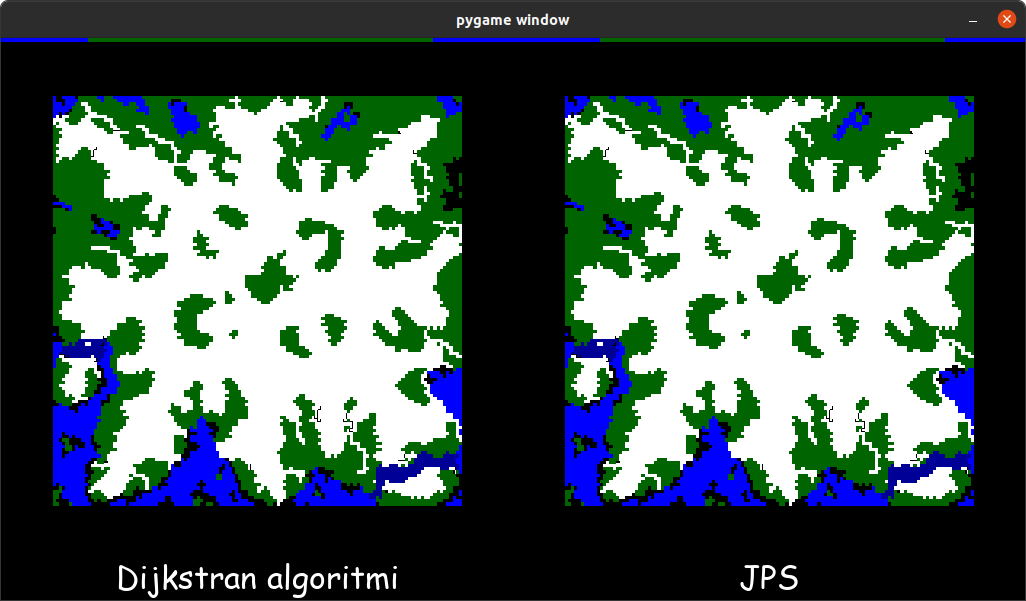
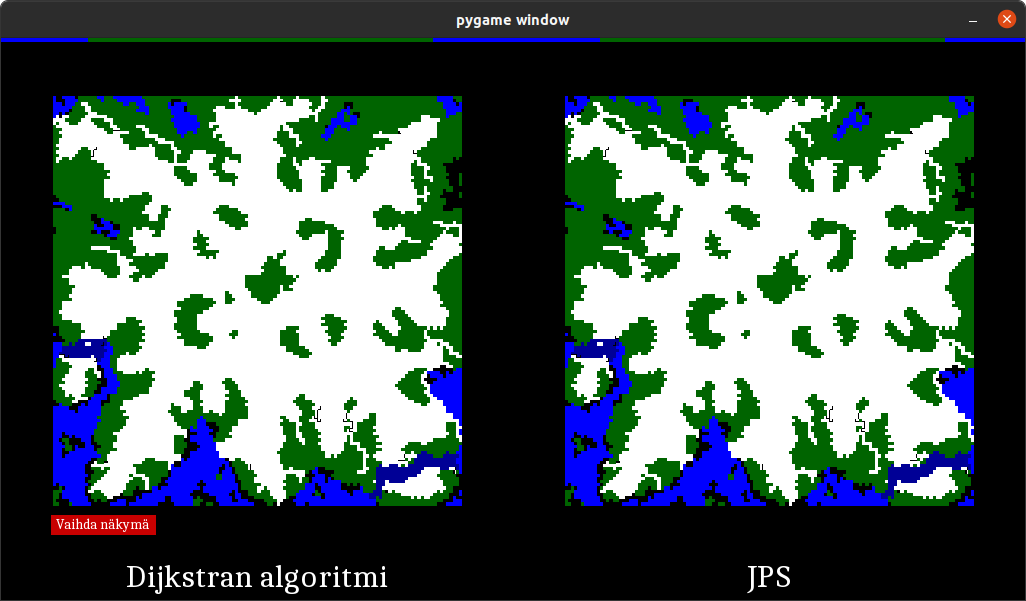
Päivitä dokumentaatiota

Changed region(s): [[0.0936, 0.9285, 0.4055, 1.0], [0.0312, 0.8386, 0.1559, 0.8985], [0.7173, 0.9285, 0.7797, 0.9884]]

diff --git a/documentation/viikkoraportti3.md b/documentation/viikkoraportti3.md
@@ -1,0 +1,8 @@
+# Viikkoraportti 3
+Tämä viikko alkoi tuskailulla miksi Dijkstran algoritmi ei toiminut oikein. Kun algoritmia testasi, se toimi niin kuin pitääkin jos loppupiste oli oikealla puolella alkupistettä, mutta jos loppupiste oli alkupisteen vasemmalla puolella, algoritmi teki hyvinkin epämääräisi kiekuroita. Tämä lisäsi kokonaispituutta "lyhyimmässä" reitissä huomattavasti. Tämä ongelma aiheutti paljon päänvaivaa ja vei liian monta tuntia aikaa, kunnes päätin kokeilla heittää heap-tietorakenteen menemään ja käyttää listaa sen sijasta. Tämä korjasi algoritmin toiminnan. Ilmeisesti heap-tietorakenne ei sovellu tällaiseen pikselikarttaan, kun kaikki tieto heap-rakenteeseen tallennettiin tupleina. Oman veikkauksen mukaan se ei oikein ymmärtänyt mikä alkio sieltä keosta olisi milloinkin pitänyt noukkia. 
+
+Epäilemättä tietorakenteen muutos hidastaa algoritmin toimintaa (Dijkstra on muutenkin ahne), mutta en keksinyt miten saisin sen tehtyä keolla. Tämän lisäksi tein Dijkstran algoritmiin myös toiminnallisuuden, jonka avulla voi tallentaa sen lyhyimmän reitin (aikaisemmin se tallensi vain askelten määrän haluttuun pisteeseen). Lisäsin myös käyttöliittymään mahdollisuuden vaihtaa, mitä tarkastellaan (lyhyin polku vai algoritmin kaikki käydyt koordinaatit).
+Lisäsin myös pari testiä, jotka tarkistavat juuri tämän lyhyimmän polun toimintaa. Lisäsin myös github-repoon CI:n, joka mm. tarkistaa, ettei koodin laatu ole liian heikkoa. Testikattavuus on lisätty README.md-tiedostoon Codecovin avulla.
+
+Seuraavalla viikolla olisi viimein määrä työstää JPS kuntoon ja erotella vihdoin visualisoinnin ruudut toisistaan, että niissä näkyisi kummankin algoritmin polut rinta rinnan.
+Aikaa olen käyttänyt 12h.

diff --git a/documentation/kayttoohje.md b/documentation/kayttoohje.md
@@ -18,7 +18,7 @@ Huom! Tällöin täytyy olla virtuaaliympäristössä, johon pääsee ajamalla j
 
 Avattua sovelluksen tällaisen ikkunan pitäisi avautua:
 ![Sovellusikkuna](/documentation/ikkuna.png)
-Valitse aloituspiste klikkaamalla vasemmasta "ruudusta" jotain valkoista tai tummansinistä pikseliä (nämä ovat pisteitä, joita pitkin voit kulkea). Tämän jälkeen toista lopetuspisteelle ja algoritmi tekee työnsä, jonka jälkeen algoritmin käymät pikselit alkavat piirtyä näytölle. Voit valita uudet koordinaatit vasta, kun vanha on piirtynyt loppuun asti. Kun suljet ohjelman, komentoriville päivittyy lopuksi reittien alku- ja loppukoordinaatit sekä minimiaskelien määrä päästäkseen loppupisteeseen.
+Valitse aloituspiste klikkaamalla vasemmasta "ruudusta" jotain valkoista tai tummansinistä pikseliä (nämä ovat pisteitä, joita pitkin voit kulkea). Tämän jälkeen toista lopetuspisteelle ja algoritmi tekee työnsä, jonka jälkeen algoritmin käymät pikselit alkavat piirtyä näytölle. Voit valita uudet koordinaatit vasta, kun vanha on piirtynyt loppuun asti. Kun suljet ohjelman, komentoriville päivittyy lopuksi reittien alku- ja loppukoordinaatit sekä minimiaskelien määrä päästäkseen loppupisteeseen. Vasemmassa alareunassa on nappula, joka vaihtaa haluttua tarkastelua lyhimmän reitin ja algoritmin kokonaan käyneen polun välillä.
 
 Testit pääsee ajamaan komentoriviltä juurihakemistosta:
 

diff --git a/README.md b/README.md
@@ -5,3 +5,4 @@
 - [Käyttöohjedokumentti](/documentation/kayttoohje.md)
 - [Viikkoraportti 1](/documentation/viikkoraportti1.md)
 - [Viikkoraportti 2](/documentation/viikkoraportti2.md)
+- [Viikkoraportti 3](/documentation/viikkoraportti3.md)
